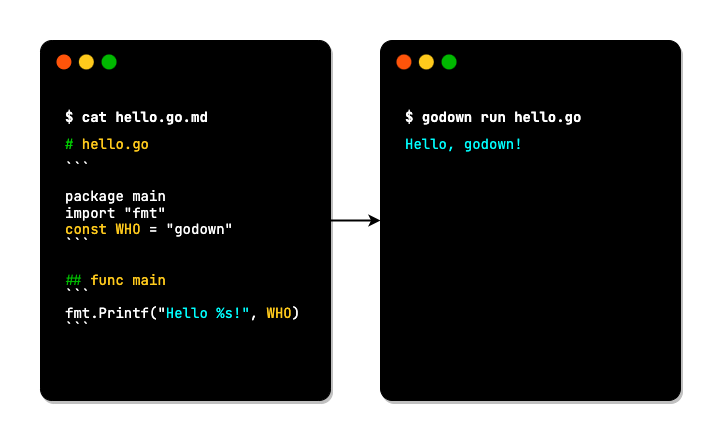
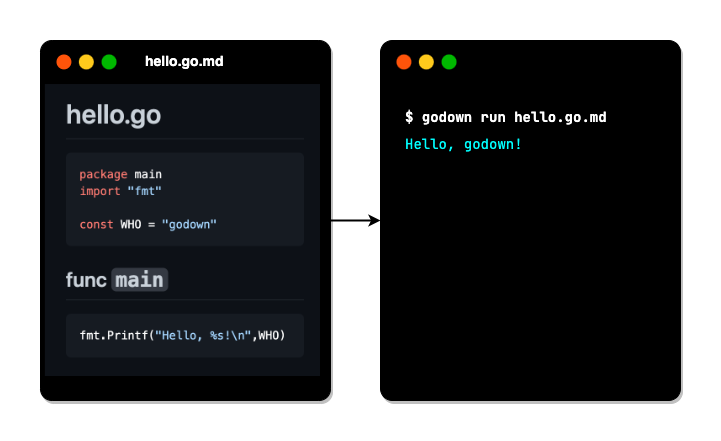
Added example image

diff --git a/docs/hello.go b/docs/hello.go
@@ -1,0 +1,12 @@
+package main
+
+import "fmt"
+
+const WHO = "godown"
+
+func main() {
+	fmt.Printf("Hello,%s!\n", WHO)
+}
+
+// This file is generated from "hello.go.md" by godown.
+// https://github.com/hirokistring/godown

diff --git a/docs/hello.go.md b/docs/hello.go.md
@@ -1,0 +1,14 @@
+# hello.go
+
+```go
+package main
+import "fmt"
+
+const WHO = "godown"
+```
+
+## func `main`
+
+```go
+fmt.Printf("Hello, %s!\n",WHO)
+```
